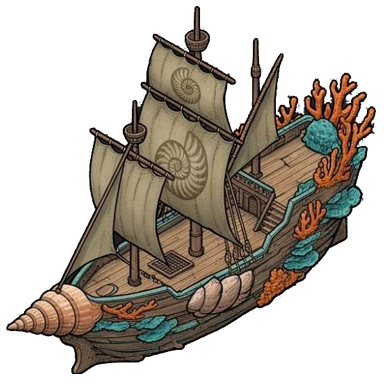
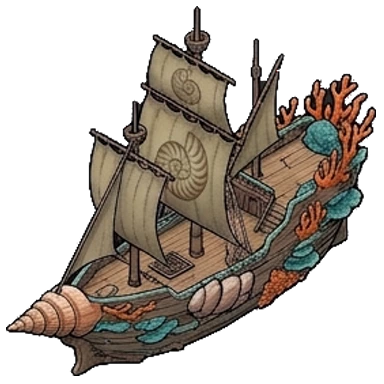
Mercan Koruyucusu: kuzey açılı düzeltilmiş sayfa (#69)
Kullanıcının düzelttiği sayfada 8 yönün hepsi var; geçici KB kuzey kaldırıldı.
Görsel sürüm 8.

Claude-Session: https://claude.ai/code/session_01Mc9BhaSSsCCxzjNzAUDeqJ

Changed region(s): [[0.0, 0.0, 1.0, 1.0]]

diff --git a/src/main.ts b/src/main.ts
@@ -102,7 +102,7 @@ const rasterItemAssets:Partial<Record<QuickItemId,string>>={};
 rasterItemAssets.iron='/assets/ammo-iron-v1.webp';rasterItemAssets.chain='/assets/ammo-chain-v1.webp';
 // Elit gemiler: tersane kartındaki tasarımın birebir aynısı, gemi başına temiz raster (384 px, pruva sol-aşağı).
 // Gemi görselleri aynı dosya adıyla yenilendiğinde tarayıcı önbelleği eskisini göstermesin diye sürüm eki (görsel değişince artır)
-const SHIP_ART_REV='7';
+const SHIP_ART_REV='8';
 const eliteArtUrl=(id:string)=>`/assets/elite-${id}-art-v2.webp?r=${SHIP_ART_REV}`;
 const eliteArtImages=new Map<string,HTMLImageElement>();
 function eliteArtImage(id:string){let im=eliteArtImages.get(id);if(!im){im=new Image();im.decoding='async';im.src=eliteArtUrl(id);eliteArtImages.set(id,im);}return im;}

diff --git a/src/elite-ships.ts b/src/elite-ships.ts
@@ -30,7 +30,7 @@ export const eliteById=(id:string)=>ELITE_SHIPS.find(ship=>ship.id===id)??ELITE_
 export const COMPASS=['N','NE','E','SE','S','SW','W','NW'] as const;
 export type Compass=typeof COMPASS[number];
 const DEFAULT_SHOWS='S SW W NE N SE E NW';
-// Kemik Biçici (bone), Kadim Atlantis Muhafızı (atlantean) ve Mercan Koruyucusu (coral) sayfalarında kuzey açısı çizimde yoktu; K karesinde geçici
+// Kemik Biçici (bone), ve Kadim Atlantis Muhafızı (atlantean) sayfalarında kuzey açısı çizimde yoktu; K karesinde geçici
 // olarak KB görünümü durur (kemikte D, B'nin aynasıdır). Gerçek K görünümü gelince aynı kareye konur.
 export const ELITE_DIR_SHOWS:Partial<Record<EliteShipId,string>>={
 };
